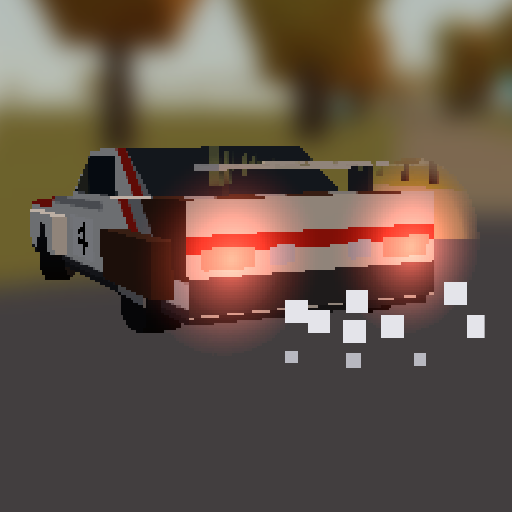
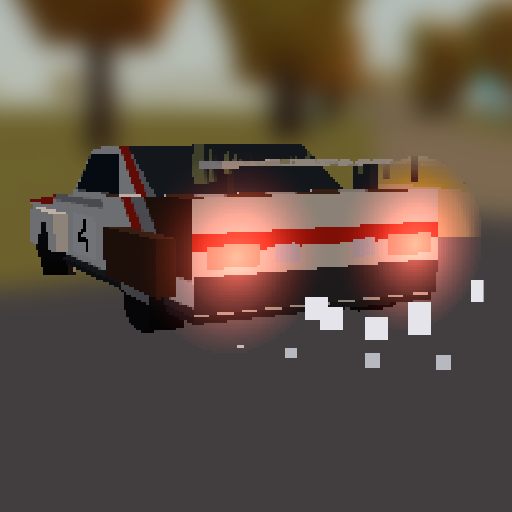
Rallye: je zwei Scheinwerfer links und rechts, Lücke in der Mitte

diff --git a/src/world/car.ts b/src/world/car.ts
@@ -5,6 +5,8 @@ import type { Vehicle, Pose } from '../physics/vehicle';
 import type { CarParams } from '../physics/params';
 import { F as GLYPH } from '../pixel';
 import { _q, PALETTE, withColor } from './common';
+/** Rallye-Zusatzscheinwerfer: x-Mitten (Anteil der halben Breite), zwei je Seite, Lücke in der Mitte. */
+const RALLY_LAMPS = [-0.68, -0.4, 0.4, 0.68];
 
 // ───────────────────────── Rallye-Coupé ─────────────────────────
 // Ein Mesh (1 Draw Call): Klötzchenkarosserie als zwei Prismen (Unterbau + Kabine), Kotflügelbacken, Zusatzscheinwerfer, Heckflügel.
@@ -115,8 +117,8 @@ function buildRallyBody(p: CarParams, mount: number[][]): THREE.Mesh {
     solid([x1, y1, z1], [x1, y1, z0], [x1, y2, z0], [x1, y2, z1], cell); solid([x0, y1, z0], [x0, y1, z1], [x0, y2, z1], [x0, y2, z0], cell);
     solid([x0, y2, z1], [x1, y2, z1], [x1, y2, z0], [x0, y2, z0], cell); solid([x0, y1, z0], [x1, y1, z0], [x1, y1, z1], [x0, y1, z1], cell);
   };
-  // Scheinwerfer (4) vor dem Grill
-  for (const x of [-0.64, -0.21, 0.21, 0.64]) box(x * hw / 0.85, y0 + 0.33, Z(0) - 0.05, 0.26, 0.2, 0.12, G.lamp);   // vier Scheinwerfer
+  // Scheinwerfer: je zwei links und rechts, Lücke in der Mitte
+  for (const x of RALLY_LAMPS) box(x * hw / 0.85, y0 + 0.33, Z(0) - 0.05, 0.26, 0.2, 0.12, G.lamp);
   // Kotflügelbacken (kantig, breiter als der Unterbau); hinten dunkel wie der Rest der Lackierung
   mount.forEach((m, i) => box(Math.sign(m[0]) * (hw + 0.02), y0 + 0.25, m[2], 0.22, 0.34, 1.0, i < 2 ? G.white : G.brown));
   // kleiner Heckflügel auf dem Deckel
@@ -408,7 +410,7 @@ export class CarMesh {
     let a = 0;
     if (p.style !== 'rally') for (const sx of [-1, 1]) box(sx * w * 0.32, ly, -l / 2 - 0.02, 0.28, 0.14, 0.06);
     mark('head', a); a = pos.length / 3;
-    if (p.style === 'rally') { for (const x of [-0.64, -0.21, 0.21, 0.64]) box(x * hw / 0.85, ly, -l / 2 - 0.12, 0.24, 0.17, 0.04); mark('aux', a); a = pos.length / 3; }   // Rallye: genau vier Scheinwerfer
+    if (p.style === 'rally') { for (const x of RALLY_LAMPS) box(x * hw / 0.85, ly, -l / 2 - 0.12, 0.24, 0.17, 0.04); mark('aux', a); a = pos.length / 3; }   // Rallye: genau vier Scheinwerfer
     for (const sx of [-1, 1]) box(sx * w * 0.36, ly, l / 2 + 0.02, 0.3, 0.12, 0.05); mark('tail', a); a = pos.length / 3;
     for (const sx of [-1, 1]) box(sx * w * 0.16, ly, l / 2 + 0.02, 0.14, 0.1, 0.05); mark('rev', a);
     this.lampN = pos.length / 3;
